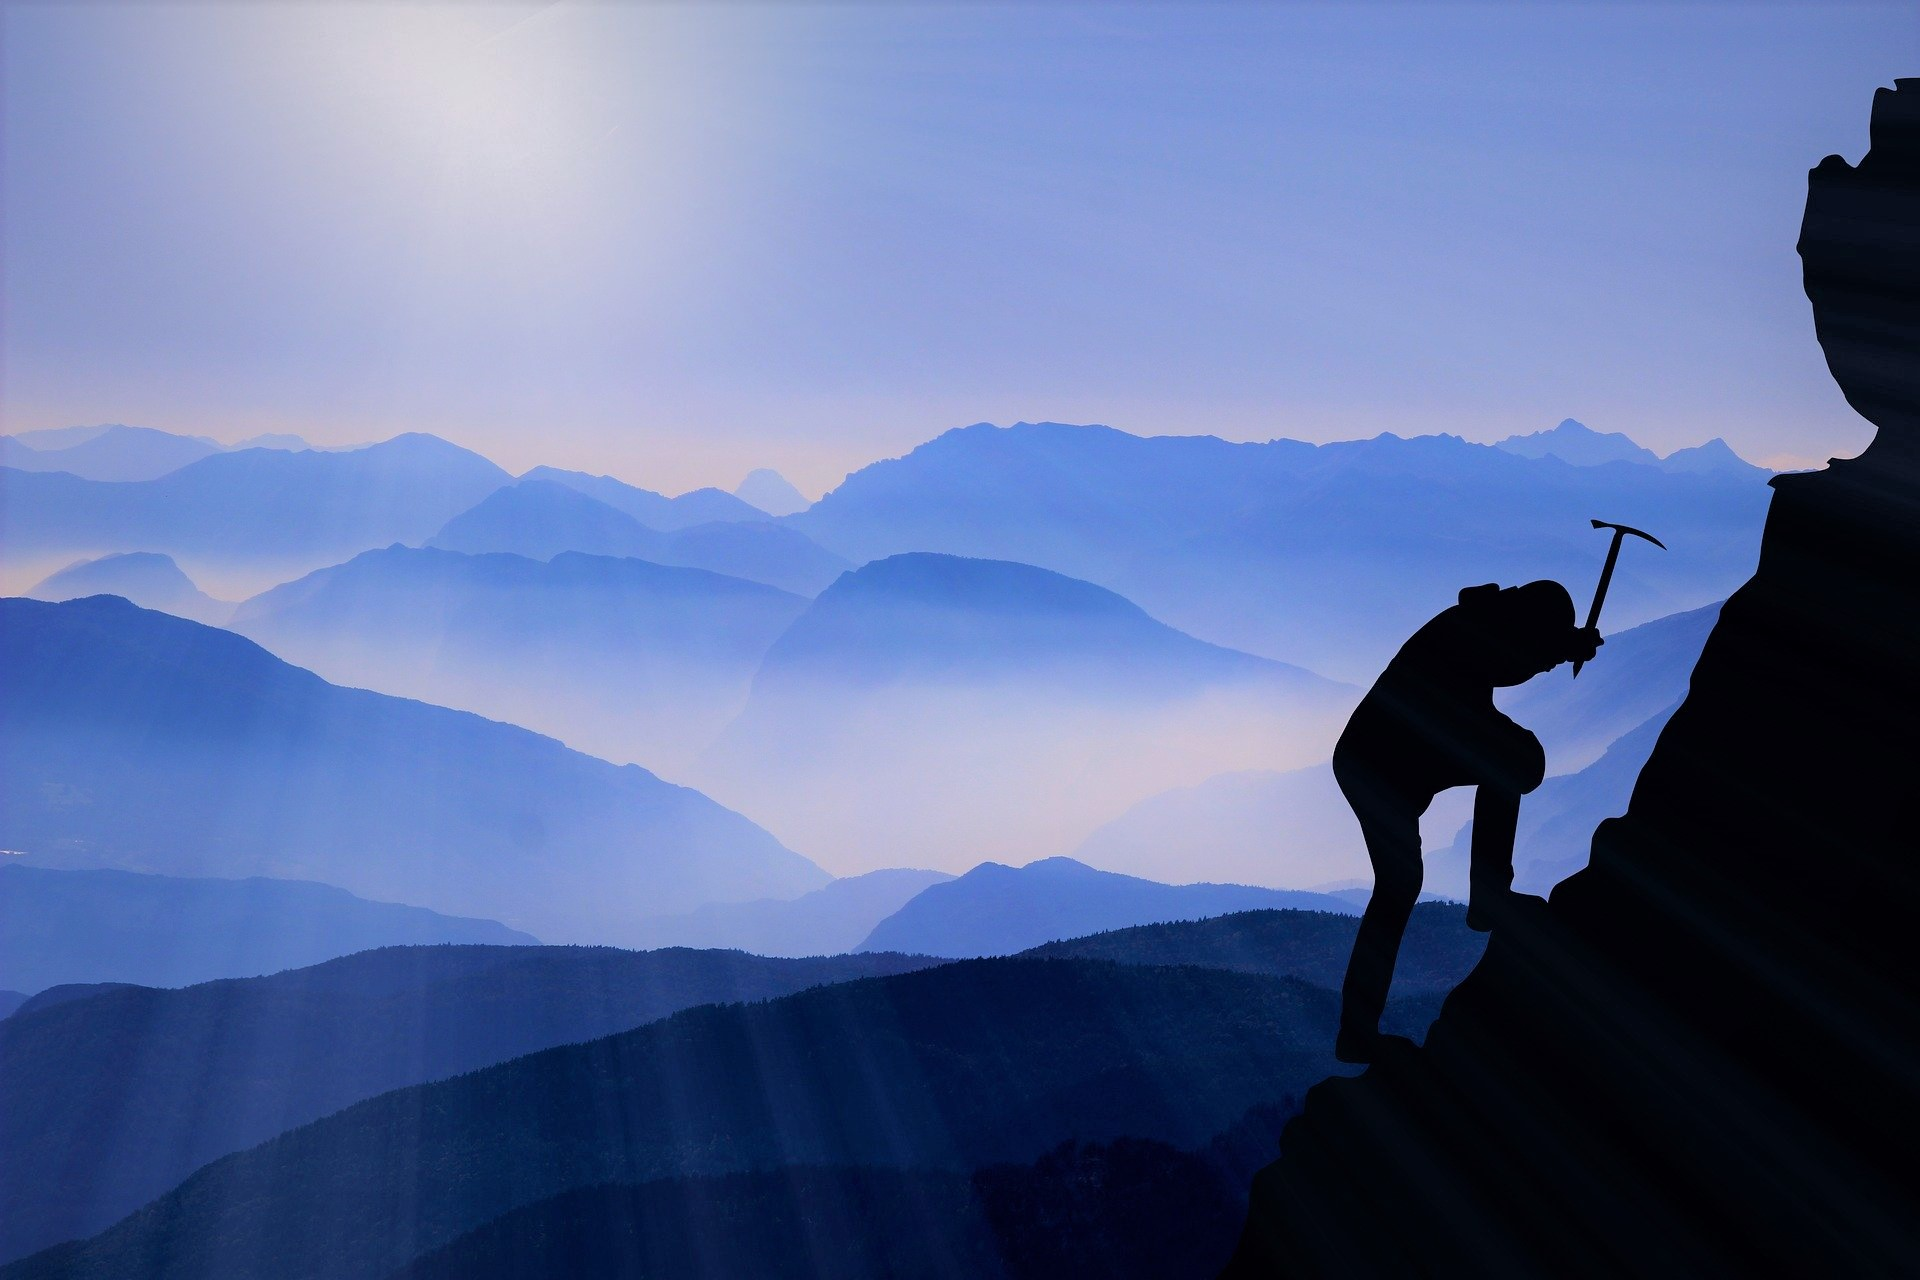
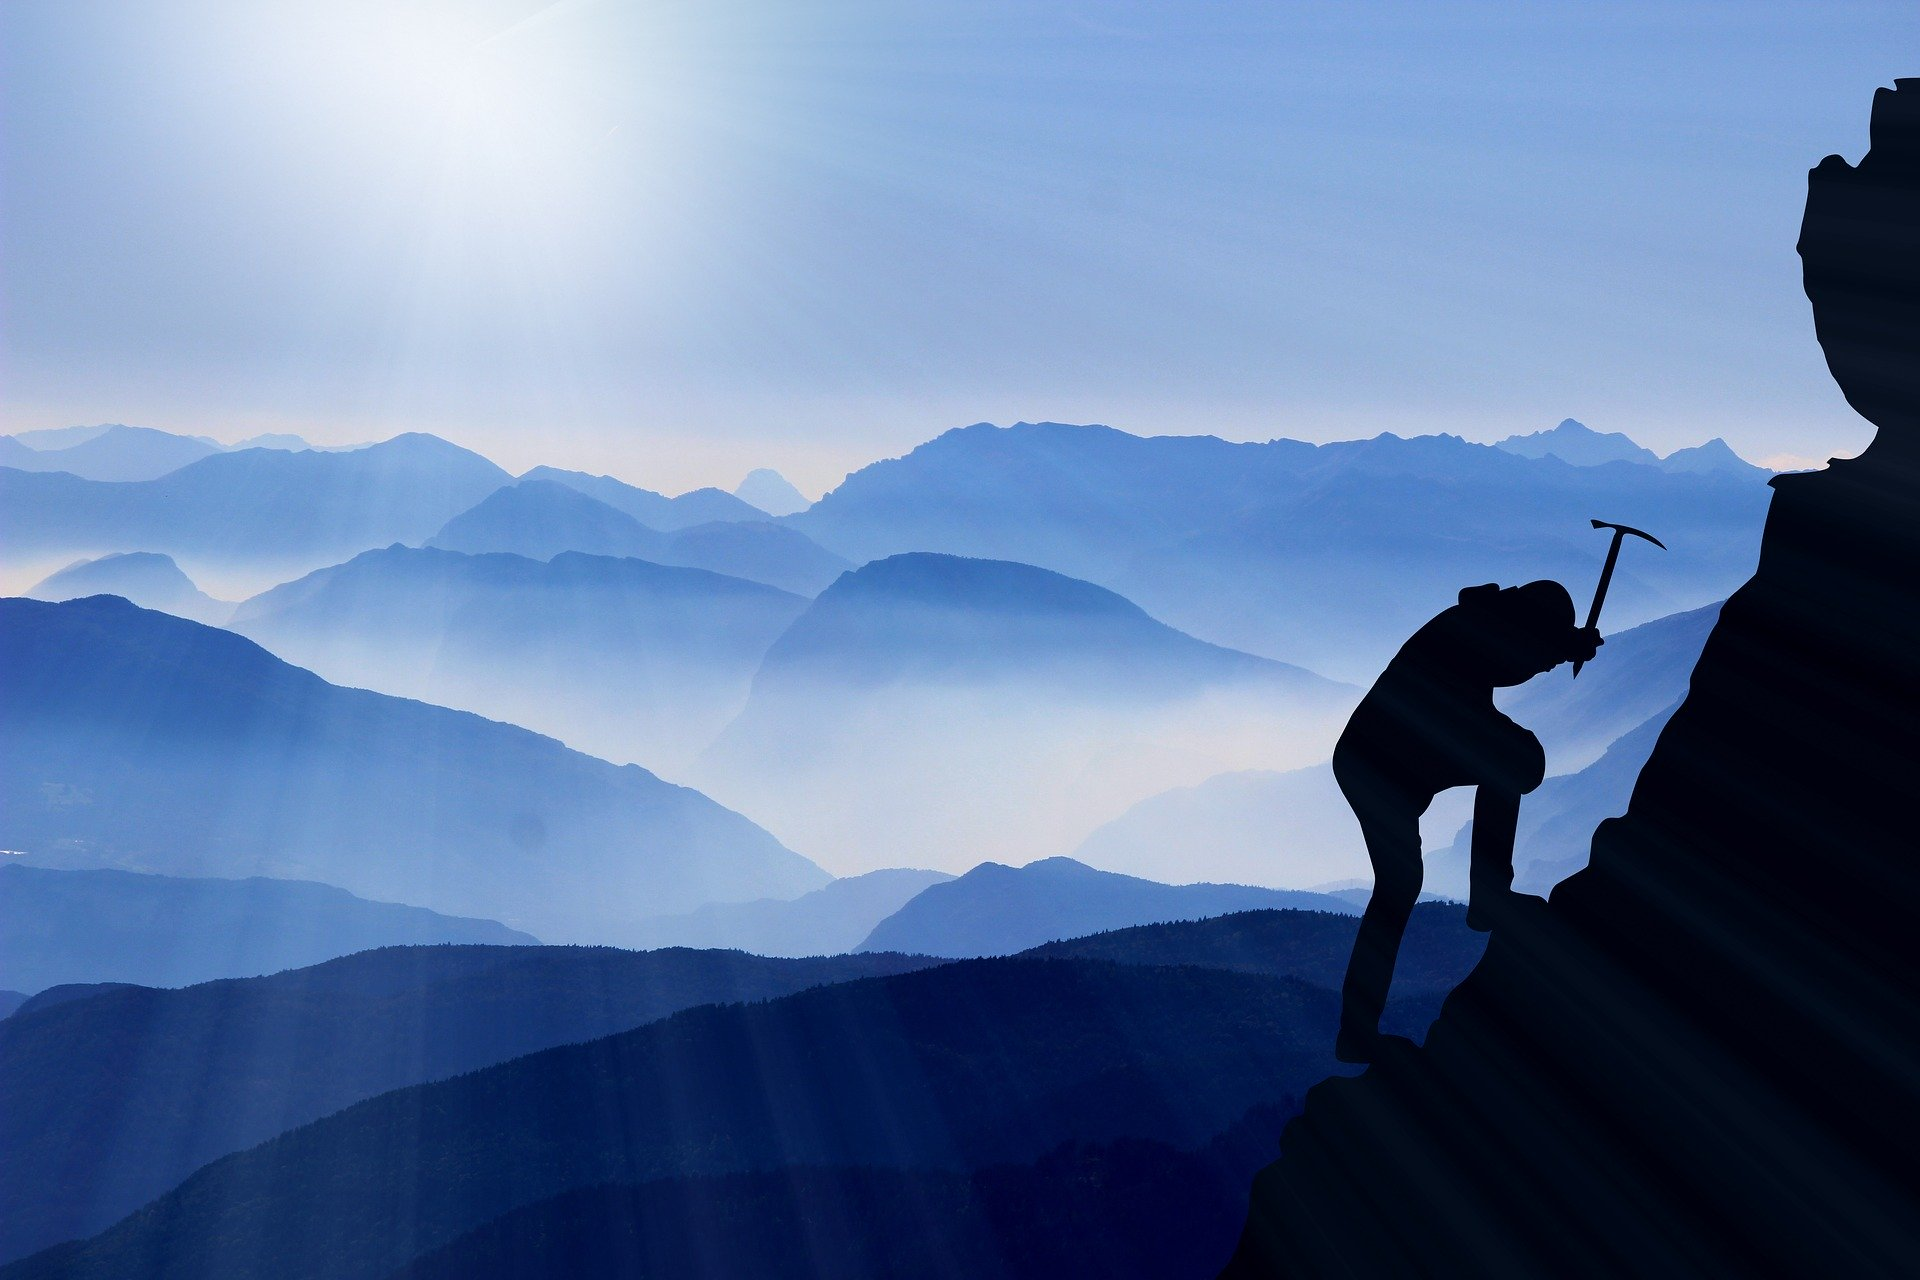
Text input styling

diff --git a/src/app.js b/src/app.js
@@ -3,10 +3,11 @@ import "./styles/css-reset.scss";
 import "./styles/app.scss";
 import "./styles/fonts.scss";
 import { ReactComponent as MenuIcon } from "./assets/menu.svg";
+import TextField from "./components/text-field";
 
 const Todo = ({ todo, index, completeTodo, removeTodo }) => (
   <div
-    className="todo"
+    className="todo app-margin-bottom "
     style={{ textDecoration: todo.isCompleted ? "line-through" : "" }}
   >
     {todo.text}
@@ -27,12 +28,14 @@ const TodoForm = ({ addTodo }) => {
   };
   return (
     <form onSubmit={handleSubmit}>
-      <input
+      <TextField
+        placeholder="Add a new todo..."
         type="text"
-        className="input"
         value={value}
-        onChange={(e) => setValue(e.target.value)}
+        className="input app-margin-bottom"
         required
+        fullwidth
+        onChange={(e) => setValue(e.target.value)}
       />
     </form>
   );
@@ -88,8 +91,9 @@ function App() {
   return (
     <div className="app">
       <AppHeader />
-      <TodoForm addTodo={addTodo} />
-      <div className="todo-list">
+      <div className="todo-list app-padding">
+        {" "}
+        <TodoForm addTodo={addTodo} />
         {todos.map((todo, index) => (
           <Todo
             key={index}

diff --git a/src/styles/app.scss b/src/styles/app.scss
@@ -5,7 +5,7 @@
 .app-header {
   height: 30vh;
   background: url(../images/climb-2125148_1920.jpg);
-  background-position: bottom;
+  background-position: center;
   background-size: cover;
   position: relative;
 }
@@ -42,7 +42,12 @@
 
 .app-header-info-container {
   width: 45%;
-  background-color: rgba(7, 25, 64, 0.22);
+  background: linear-gradient(
+    0deg,
+    rgba(7, 25, 64, 0.8949451606814601) 0%,
+    rgba(7, 25, 64, 0.7408835360316002) 35%,
+    rgba(7, 25, 64, 0.2338807349111519) 100%
+  );
   height: 100%;
   display: flex;
   justify-content: space-evenly;
@@ -59,10 +64,13 @@
 
 //todo list styling
 .todo-list {
-  background: #e8e8e8;
   border-radius: 4px;
   padding: 5px;
   max-width: 400px;
+  // display: flex;
+  // flex-direction: column;
+  // justify-content: center;
+  // align-items: center;
 }
 
 .todo {
@@ -77,8 +85,16 @@
   justify-content: space-between;
 }
 
+.input {
+  width: 100%;
+}
+
 // custom utility classes
 
 .app-padding {
   padding: 1rem;
+}
+
+.app-margin-bottom {
+  margin-bottom: 1.666rem;
 }

diff --git a/src/components/text-field.js b/src/components/text-field.js
@@ -1,0 +1,4 @@
+import { TextField } from "@rmwc/textfield";
+import "@rmwc/textfield/styles";
+
+export default TextField;
